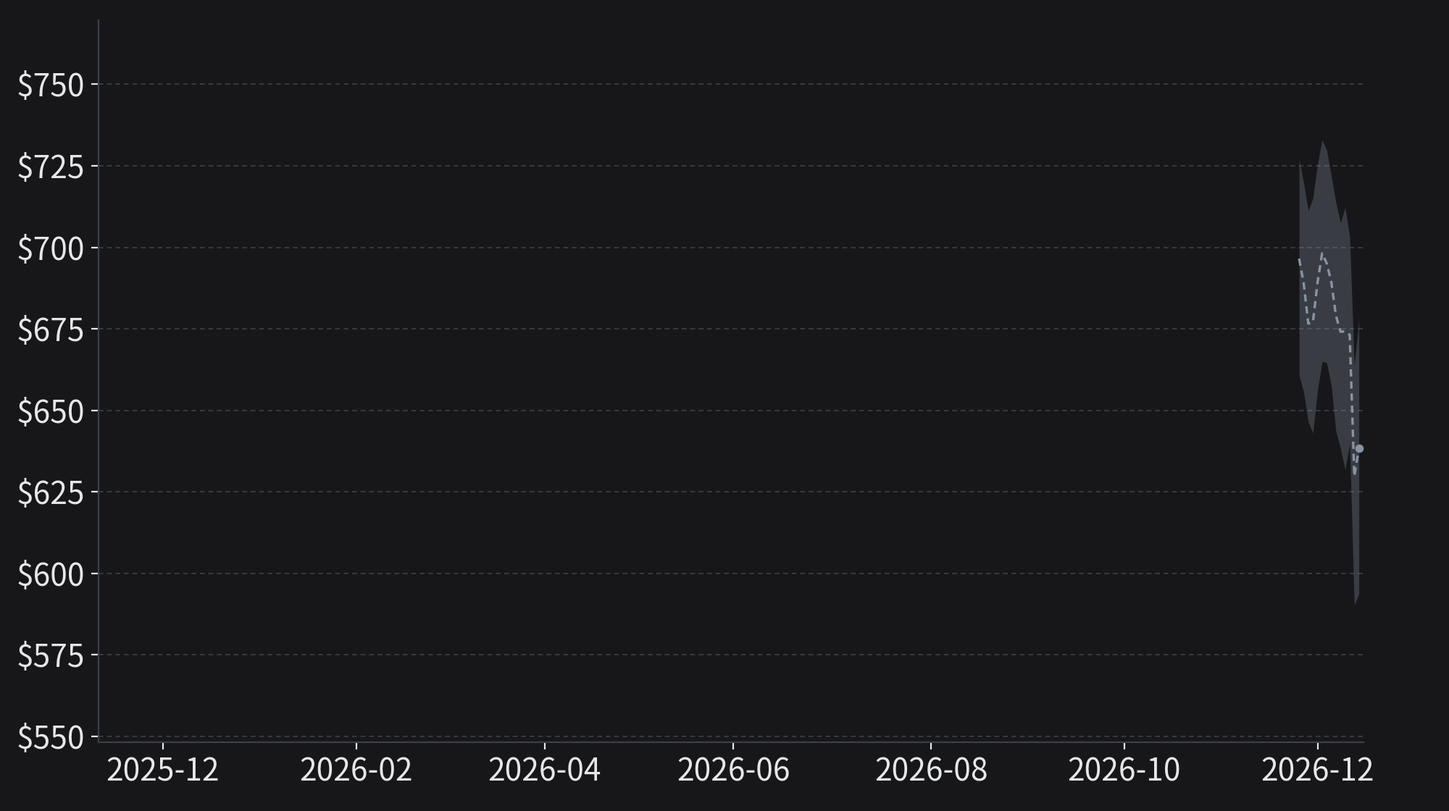
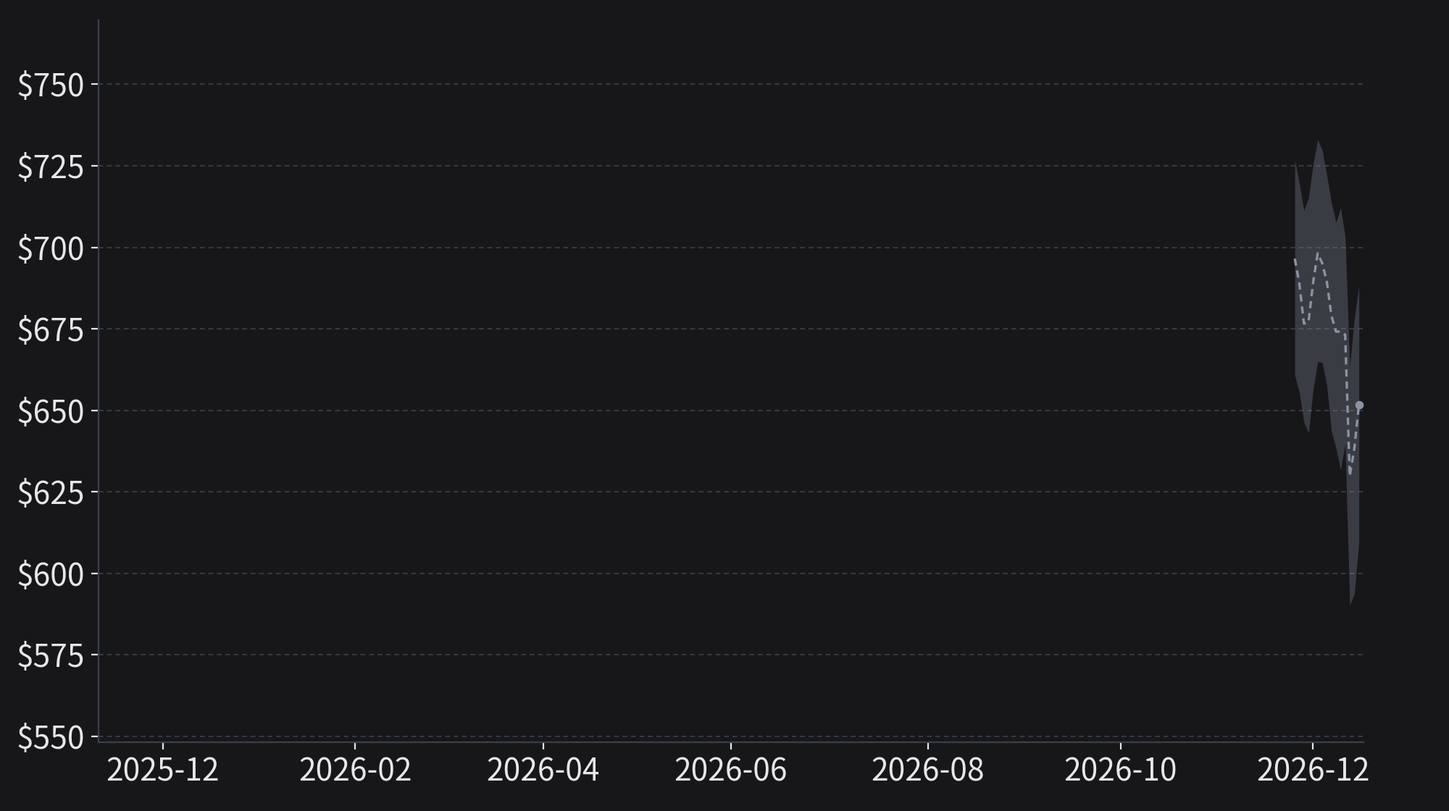
2026-11-11 nasdaq 리포트 공개본

diff --git a/r/20261111-nasdaq/report.html b/r/20261111-nasdaq/report.html
@@ -1,0 +1,117 @@
+<h2 id="1개월-지수-방향-예측">1개월 지수 방향 예측</h2>
+<p><img src="r/20261111-nasdaq/chart-nasdaq.png?v=f83bb70347" /></p>
+<p><img src="r/20261111-nasdaq/predict-nasdaq.png?v=da55520d54" /></p>
+<h3 id="현재-상태-10월-소비자물가가-예상보다-높았지만-코어위브-실적-덕분에-ai-기업의-부채에-대한-불안이-줄었다"><mark>현재 상태</mark> 10월 소비자물가가 예상보다 높았지만 코어위브 실적 덕분에 AI 기업의 부채에 대한 불안이 줄었다</h3>
+<p>10일 미국 노동부의 발표에서 10월 소비자물가는 식품과 에너지를 뺀 근원 물가까지 예상보다 많이 올랐다. 그날 2년물 국채 금리가 크게 올랐고 나스닥100은 0.6% 하락했다. 시장이 12월 금리 인상을 이미 거의 확실한 일로 예상하고 있었기 때문에 지수 낙폭이 작았던 것이다.</p>
+<p>같은 날 장 마감 뒤에는 AI 데이터센터를 임대하는 기업 코어위브가 3분기 실적을 냈다. 매출은 시장 예상보다 많았고, 이자비용은 회사의 전망보다 적었다. 코어위브의 부도 위험에 대한 보험료도 미국 중간선거 직후보다 낮아졌다. 지수는 지난주 AI 기업의 부채에 대한 불안 때문에 크게 하락했다. 코어위브 실적 덕분에 그 불안이 조금 줄어든 것이다.</p>
+<p>다만 시장은 여전히 조심스럽다. 엔비디아 주가는 최고경영자에 대한 이사회 조사 때문에 이틀 연속 크게 하락했다. 하이일드 채권 스프레드(신용등급이 낮은 회사채의 금리가 국채 금리보다 높은 폭)도 1년 가운데 높은 편이다.</p>
+<h3 id="주요-분기와-예측-물가-지표-엔비디아-실적-앤트로픽-공모에-따라-이번-달-주가가-달라진다"><mark>주요 분기와 예측</mark> 물가 지표, 엔비디아 실적, 앤트로픽 공모에 따라 이번 달 주가가 달라진다</h3>
+<p>앞으로 한 달 동안 세 가지 일이 중요하다.</p>
+<p>이달 말 나오는 10월 개인소비지출(PCE) 물가가 중요하다. 10월 소비자물가 발표 뒤 연준이 중시하는 근원 PCE 물가의 추정치를 골드만삭스와 BofA가 크게 올렸다. 근원 PCE 물가가 그 추정치만큼 높게 나올 가능성이 높다. 추정치보다 낮게 나오면 12월 큰 폭 인상에 대한 걱정이 줄어 주가가 오른다.</p>
+<p>17일 장 마감 뒤 나오는 엔비디아의 3분기 실적이 중요하다. 엔비디아가 시장 예상을 넘는 실적을 내고 주가가 오를 가능성이 어제보다 높아졌다. 엔비디아 주가는 이틀 크게 내렸지만 애널리스트들은 이익 추정치를 낮추지 않았기 때문이다. 다음 분기 전망이 시장 예상에 못 미치면 AI 반도체의 주가가 함께 하락한다.</p>
+<p>18일 장 마감 뒤 정해지는 AI 개발사 앤트로픽의 공모가가 중요하다. CNBC는 10일 기관들이 로드쇼 첫날에 가격 범위 안에서 공모 물량을 모두 청약했다고 전했다. 그래서 공모가가 가격 범위 안에서 정해질 가능성이 어제보다 높아졌다.</p>
+<h3 id="종합-시나리오-지수가-횡보할-가능성이-가장-높고-어제보다-그-확률이-커졌다"><mark>종합 시나리오</mark> 지수가 횡보할 가능성이 가장 높고, 어제보다 그 확률이 커졌다</h3>
+<p>지수가 횡보할 가능성이 가장 높다. 어제보다 그 확률이 커졌다. 지수가 소폭 하락할 가능성이 그다음으로 높고, 어제보다 그 확률도 조금 커졌다.</p>
+<p>지수가 횡보하려면 두 결과가 함께 나와야 한다. 10월 PCE 물가가 시장의 추정치만큼 나오고, 엔비디아가 시장 예상을 넘는 실적을 내는 것이다. 두 결과 모두 가능성이 높다. 그러면 12월 금리 인상과 AI 기업의 부채에 대한 불안 때문에 주가가 내리지만, 엔비디아 실적 덕분에 주가가 그만큼 오른다.</p>
+<p>지수가 소폭 하락하려면 물가 지표 때문에 12월 큰 폭 인상에 대한 걱정이 커져야 한다. 앤트로픽 공모와 주 정부의 데이터센터 규제 때문에 AI 주식에 대한 수요가 줄어도 지수가 소폭 하락한다. 엔비디아 실적이 시장의 기대에 못 미치면 지수가 소폭 하락할 가능성이 더 커진다.</p>
+<p>어제와 견주면 지수가 크게 하락할 확률이 가장 많이 줄었다. 코어위브 실적이 시장 예상보다 좋았고, 앤트로픽 공모의 청약이 강했으며, 트럼프 대통령이 이란에 대한 추가 공격을 자제하겠다고 말했기 때문이다.</p>
+<h2 id="주요-시장-지표">주요 시장 지표</h2>
+<h3 id="공포탐욕-지수" data-card="{&quot;tab&quot;: &quot;공포·탐욕&quot;, &quot;help&quot;: [[&quot;지표&quot;, &quot;CNN이 주가 추세, 신고가 종목 수, 옵션 거래, 안전자산 수요 같은 지표 7개로 투자 심리를 0~100점으로 매긴 값이에요.&quot;], [&quot;그림 읽기&quot;, &quot;흰 바늘이 오늘 점수를 가리켜요. 연한 회색 바늘은 11/10 값이에요. 왼쪽 끝이 공포, 오른쪽 끝이 탐욕이에요.&quot;]], &quot;asof&quot;: &quot;CNN · 11/11&quot;, &quot;value&quot;: &quot;33&quot;, &quot;state&quot;: [&quot;공포&quot;, &quot;#5b9bff&quot;], &quot;figure&quot;: {&quot;type&quot;: &quot;semi&quot;, &quot;min&quot;: 0, &quot;max&quot;: 100, &quot;zones&quot;: [[25, &quot;#5b9bff&quot;, &quot;극단 공포&quot;], [45, &quot;#5b9bff&quot;, &quot;공포&quot;], [55, &quot;#4a4f58&quot;, &quot;중립&quot;], [75, &quot;#ff5c5c&quot;, &quot;탐욕&quot;], [100, &quot;#ff5c5c&quot;, &quot;극단 탐욕&quot;]], &quot;value&quot;: 33, &quot;before&quot;: 32, &quot;ends&quot;: [&quot;공포&quot;, &quot;탐욕&quot;]}}">공포·탐욕 지수</h3>
+<p>공포·탐욕 지수는 1년 가운데 하위 3분의 1이다. 시장이 아직 조심스럽다는 뜻이다. 좋은 소식이 나오면 매수가 늘 수 있다.</p>
+<h3 id="qqq-풋콜-거래-비율" data-card="{&quot;tab&quot;: &quot;풋/콜&quot;, &quot;help&quot;: [[&quot;지표&quot;, &quot;그날 거래된 QQQ 풋옵션 계약 수를 콜옵션 계약 수로 나눈 값이에요. 하락에 대비하는 풋옵션을 많이 살수록 값이 커져요.&quot;], [&quot;그림 읽기&quot;, &quot;값이 클수록 시장에 부정적이어서, 큰 값을 왼쪽에 그려요. 흰 바늘이 오늘 값을 가리켜요. 연한 회색 바늘은 11/10 값이에요.&quot;]], &quot;asof&quot;: &quot;옵션 · 11/11&quot;, &quot;value&quot;: &quot;1.12&quot;, &quot;state&quot;: [&quot;중립&quot;, &quot;#4a4f58&quot;], &quot;figure&quot;: {&quot;type&quot;: &quot;semi&quot;, &quot;min&quot;: 0.4, &quot;max&quot;: 2, &quot;zones&quot;: [[0.8, &quot;#ff5c5c&quot;, &quot;낙관&quot;], [1.2, &quot;#4a4f58&quot;, &quot;중립&quot;], [2, &quot;#5b9bff&quot;, &quot;비관&quot;]], &quot;value&quot;: 1.12, &quot;reverse&quot;: true, &quot;before&quot;: 1.25, &quot;ends&quot;: [&quot;비관&quot;, &quot;낙관&quot;]}}">QQQ 풋/콜 거래 비율</h3>
+<p>풋/콜 거래 비율이 1년 가운데 낮은 편이다. 시장이 하락에 덜 대비한다는 뜻이다. 악재가 나오면 지수가 더 크게 하락할 수 있다.</p>
+<h3 id="연준-금리-경로" data-card="{&quot;tab&quot;: &quot;금리 경로&quot;, &quot;help&quot;: [[&quot;지표&quot;, &quot;연방기금 금리 선물의 가격으로 계산한 연준 기준금리의 예상 경로예요. 앞으로 열리는 연준 회의 세 번마다 지금 금리에서 얼마나 바뀔지를 누적 %p로 보여 줘요.&quot;], [&quot;그림 읽기&quot;, &quot;금리가 움직일 방향대로 인상을 오른쪽에 빨간 막대로, 인하를 왼쪽에 파란 막대로 그려요.&quot;]], &quot;asof&quot;: &quot;연방기금 선물 · 11/11&quot;, &quot;value&quot;: &quot;+0.28&quot;, &quot;unit&quot;: &quot;%p&quot;, &quot;state&quot;: [&quot;12월 인상 예상&quot;, &quot;#ff5c5c&quot;], &quot;figure&quot;: {&quot;type&quot;: &quot;diverge&quot;, &quot;rows&quot;: [[&quot;12월&quot;, 28.2, &quot;+0.28%p&quot;], [&quot;1월&quot;, 44.0, &quot;+0.44%p&quot;], [&quot;3월&quot;, 60.6, &quot;+0.61%p&quot;]], &quot;max&quot;: 75.75, &quot;ends&quot;: [&quot;인하&quot;, &quot;인상&quot;]}}">연준 금리 경로</h3>
+<p>12월 인상 기대가 이번 주 더 커졌다. 시장이 0.25%p보다 큰 인상도 일부 예상한다는 뜻이다. 물가가 또 높으면 국채 금리가 더 오를 수 있다.</p>
+<h3 id="vix-변동성-지수" data-card="{&quot;tab&quot;: &quot;VIX&quot;, &quot;help&quot;: [[&quot;지표&quot;, &quot;S&amp;P500 옵션 가격으로 계산한 앞으로 30일 동안의 예상 변동성이에요. 급락에 대비하는 옵션을 많이 살수록 값이 커져요.&quot;], [&quot;그림 읽기&quot;, &quot;값이 클수록 시장에 부정적이어서, 큰 값을 왼쪽에 그려요. 흰 원이 오늘 값이에요. 연한 회색 원은 11/10 값이에요. 구간은 시장에서 흔히 쓰는 15·20·30을 경계로 나눠요.&quot;]], &quot;asof&quot;: &quot;CBOE · 11/11&quot;, &quot;value&quot;: &quot;19.5&quot;, &quot;state&quot;: [&quot;보통&quot;, &quot;#4a4f58&quot;], &quot;figure&quot;: {&quot;type&quot;: &quot;zoneBar&quot;, &quot;min&quot;: 10, &quot;max&quot;: 50, &quot;zones&quot;: [[15, &quot;#0ca30c&quot;, &quot;안정&quot;], [20, &quot;#4a4f58&quot;, &quot;보통&quot;], [30, &quot;#fab219&quot;, &quot;불안&quot;], [50, &quot;#d03b3b&quot;, &quot;공포&quot;]], &quot;value&quot;: 19.46, &quot;before&quot;: 19.92, &quot;reverse&quot;: true}}">VIX 변동성 지수</h3>
+<p>변동성 지수는 1년 가운데 높은 편이지만 지난주보다 낮다. 시장의 불안이 줄었다는 뜻이다. 기계적으로 매매하는 펀드가 주식을 다시 살 수 있다.</p>
+<h3 id="하이일드-스프레드" data-card="{&quot;tab&quot;: &quot;신용&quot;, &quot;help&quot;: [[&quot;지표&quot;, &quot;신용등급이 낮은 미국 회사채의 금리에서 국채 금리를 뺀 값이에요. 채권 투자자가 부도 위험에 대한 보상으로 더 요구하는 금리예요.&quot;], [&quot;그림 읽기&quot;, &quot;막대는 최근 12주 동안 주마다 마지막 스프레드예요. 맨 오른쪽 흰 막대가 오늘 값이에요. 막대가 오른쪽으로 갈수록 높아지면 채권 시장이 부도 위험을 더 크게 본다는 뜻이에요.&quot;]], &quot;asof&quot;: &quot;FRED · 11/10&quot;, &quot;value&quot;: &quot;3.34&quot;, &quot;unit&quot;: &quot;%&quot;, &quot;state&quot;: [&quot;1년 상위 3%&quot;, &quot;#5b9bff&quot;], &quot;figure&quot;: {&quot;type&quot;: &quot;columns&quot;, &quot;bars&quot;: [[&quot;8/29&quot;, 2.6, &quot;2.60%&quot;], [&quot;9/4&quot;, 2.65, &quot;2.65%&quot;], [&quot;9/12&quot;, 2.65, &quot;2.65%&quot;], [&quot;9/19&quot;, 2.68, &quot;2.68%&quot;], [&quot;9/26&quot;, 2.93, &quot;2.93%&quot;], [&quot;10/3&quot;, 3.1, &quot;3.10%&quot;], [&quot;10/9&quot;, 3.15, &quot;3.15%&quot;], [&quot;10/17&quot;, 3.31, &quot;3.31%&quot;], [&quot;10/24&quot;, 3.38, &quot;3.38%&quot;], [&quot;10/31&quot;, 3.44, &quot;3.44%&quot;], [&quot;11/7&quot;, 3.42, &quot;3.42%&quot;], [&quot;11/10&quot;, 3.34, &quot;3.34%&quot;]], &quot;max&quot;: 4, &quot;lines&quot;: [[1, &quot;1%&quot;], [2, &quot;2%&quot;], [3, &quot;3%&quot;], [4, &quot;4%&quot;]]}}">하이일드 스프레드</h3>
+<p>하이일드 스프레드는 1년 가운데 높지만 지난주보다 좁다. 신용등급이 낮은 회사의 채권 시장 전체에서 부채에 대한 불안이 커지지 않았다는 뜻이다. 더 좁아지면 기술주 매도가 줄 수 있다.</p>
+<h2 id="주요-이슈-해설">주요 이슈 해설</h2>
+<h3 id="1-코어위브-실적과-ai-기업의-부채에-대한-불안-양방향-중요도-높음">1. 코어위브 실적과 AI 기업의 부채에 대한 불안 <code>양방향</code> <code>중요도 높음</code></h3>
+<h4 id="이슈-해설-코어위브의-3분기-이자비용이-회사-전망보다-적었다"><mark>이슈 해설</mark> 코어위브의 3분기 이자비용이 회사 전망보다 적었다</h4>
+<p>AI 데이터센터를 임대하는 기업 코어위브의 3분기 실적이 시장 예상보다 좋았다. 지수는 지난주 AI 기업의 부채에 대한 불안 때문에 하락했다. 코어위브 실적 덕분에 그 불안이 조금 줄어든 것이다.</p>
+<p>CNBC는 10일 코어위브의 3분기 매출이 36.6억 달러로 LSEG 집계 예상 35.5억 달러보다 많았다고 전했다. 코어위브는 지난 분기에 3분기 이자비용을 8.6억~9.4억 달러로 예상했다. 코어위브가 같은 날 공시한 3분기 순이자비용은 8.46억 달러로 그보다 적었다. 코어위브는 올해 매출과 영업이익 전망도 올렸다. 데이터센터 수요가 줄지 않았고 이자 부담도 회사가 예상한 수준을 넘지 않은 것이다.</p>
+<p>코어위브 경영진은 같은 날 2027년까지 회사채를 더 발행하지 않겠다고 말했다. 코어위브는 앞으로 석 달 동안 고객에게 미리 받을 약 90억 달러와 계약을 담보로 한 대출로 필요한 돈을 마련하겠다는 것이다.</p>
+<p>9월 말 코어위브의 수주잔고는 1,325억 달러로 6월 말보다 늘었다.</p>
+<p>다만 코어위브의 이자 부담은 계속 커진다. 코어위브는 4분기 이자비용을 3분기보다 많은 10.5억~11.5억 달러로 예상했다. 3분기 설비투자는 영업으로 번 현금의 약 다섯 배였다.</p>
+<p>시장은 코어위브 실적 전부터 부채에 대한 불안을 덜고 있었다. CNBC에 따르면 코어위브의 부도 위험에 대한 보험료는 5일 1,278bp에서 실적 발표 전인 10일 오전 약 1,152bp로 내렸다. 로이터는 실적 직후 그 보험료가 1,135bp였다고 전했다.</p>
+<p>AI 기업의 부채에 대한 불안은 신용등급이 낮은 회사의 채권 시장 전체에서 커지지 않았다. 하이일드 채권 스프레드가 미국 중간선거 직후보다 좁기 때문이다.</p>
+<h3 id="2-10월-소비자물가와-12월-금리-인상-하락-요인-중요도-높음">2. 10월 소비자물가와 12월 금리 인상 <code>하락 요인</code> <code>중요도 높음</code></h3>
+<h4 id="이슈-해설-10월-근원-소비자물가가-예상보다-01p-높았다"><mark>이슈 해설</mark> 10월 근원 소비자물가가 예상보다 0.1%p 높았다</h4>
+<p>미국의 10월 근원 소비자물가가 예상보다 많이 올랐다. 시장은 12월 연준 회의에서 금리를 0.25%p 올리는 것을 넘어 더 큰 폭의 인상과 내년 1월의 추가 인상까지 예상하기 시작했다.</p>
+<p>미국 노동부는 10일 10월 소비자물가가 전월보다 0.4% 올랐다고 발표했다. 근원 물가는 0.3% 올랐다. 다우존스 집계 예상은 각각 0.3%와 0.2%였다. 근원 물가는 9월에도 같은 폭으로 올랐다. 시장이 물가 상승은 일시적이지 않다고 걱정하게 된 것이다.</p>
+<p>연준 인사들도 추가 긴축을 말했다. 월러 이사는 발표 전 근원 물가가 0.3% 안팎이면 12월에 0.5%p 인상을 검토해야 한다고 말했다. 댈러스 연은의 로건 총재는 발표 뒤 0.25%p 인상이 두 번 더 필요하다고 말했다.</p>
+<p>골드만삭스는 10월 근원 PCE 물가의 추정치를 0.23%에서 0.35%로 올렸다.</p>
+<p>다만 시장은 12월 인상을 이미 대부분 예상하고 있었다. CNBC는 9일 CME FedWatch(금리 선물 가격으로 회의마다 인상 확률을 계산하는 도구) 기준 12월 인상 확률이 80%를 넘었다고 전했다. 10일 로이터 설문에서는 이코노미스트 101명 모두가 12월 0.25%p 인상을 예상했다. 이 가운데 56명은 12월을 마지막 인상으로 봤다.</p>
+<p>10일 2년물 국채 금리는 18.9bp 올랐지만 나스닥100은 0.6% 하락에 그쳤다. 연방기금 선물의 가격은 12월과 내년 1월 인상을 반영했다. 시장이 0.5%p 인상 가능성을 장중 약 15%까지 예상했다가 장 마감 무렵 약 10%로 줄인 것이다.</p>
+<h3 id="3-엔비디아-최고경영자-조사와-실적-양방향-중요도-높음">3. 엔비디아 최고경영자 조사와 실적 <code>양방향</code> <code>중요도 높음</code></h3>
+<h4 id="이슈-해설-엔비디아-주가가-최고경영자에-대한-조사-보도-뒤-이틀-연속-크게-하락했다"><mark>이슈 해설</mark> 엔비디아 주가가 최고경영자에 대한 조사 보도 뒤 이틀 연속 크게 하락했다</h4>
+<p>엔비디아 주가가 이틀 연속 크게 하락했다. 시장은 최고경영자에 대한 조사가 엔비디아의 중국 판매에 대한 규제로 이어질 수 있다고 걱정한 것이다.</p>
+<p>야후파이낸스는 10일 엔비디아 주가가 5.47% 내린 168.89달러로 마감했다고 전했다. 엔비디아 주가는 9일에도 4.3% 하락했다. 같은 날 기술 매체 디인포메이션은 최소 75억 달러어치의 엔비디아 제품이 2023년 이후 중국 기업에 팔렸다고 보도했다. 최고경영자와 가까운 인물이 관여한 유통망을 거쳤다는 것이다. 엔비디아는 이 판매 규모를 확인하지 않았다.</p>
+<p>엔비디아 이사회는 8일 독립 위원회를 꾸려 최고경영자와 싱가포르 기술기업 메가스피드 임원의 관계를 조사한다고 밝혔다. 미국 법무부는 메가스피드를 형사 조사하고 있다. 하원 위원장 세 명은 최고경영자에게 18일 비공개 브리핑에 나오라고 요청했다.</p>
+<p>다만 애널리스트들은 엔비디아의 이익 추정치를 내리지 않았다. 투자 분석 매체 TIKR은 2일 엔비디아의 다음 분기 매출 예상을 약 1,240억 달러로 전했다. 같은 매체는 5일 애널리스트들이 추정치를 내리지 않고 있다고 적었다. 엔비디아는 3분기 매출 전망에 중국 데이터센터 매출을 처음부터 포함하지 않았다. 중국 판매에 대한 의혹 때문에 3분기 실적이 달라지지는 않는 것이다.</p>
+<p>옵션 시장은 실적 발표 뒤 엔비디아 주가가 위아래로 6.7% 움직일 것으로 가격을 매겼다. 이 변동폭은 주가가 내리기 전의 값과 거의 같다. 시장은 주가가 하락한 뒤에도 실적 발표 뒤 주가 변동폭에 대한 예상을 줄이지 않은 것이다.</p>
+<h3 id="4-주-정부의-데이터센터-규제-하락-요인-중요도-높음">4. 주 정부의 데이터센터 규제 <code>하락 요인</code> <code>중요도 높음</code></h3>
+<h4 id="이슈-해설-미국에-계획된-데이터센터-용량의-약-40가-신규-건설을-멈추겠다고-공약한-주에-있다"><mark>이슈 해설</mark> 미국에 계획된 데이터센터 용량의 약 40%가 신규 건설을 멈추겠다고 공약한 주에 있다</h4>
+<p>미국 중간선거에서 당선된 새 주지사들이 데이터센터의 신규 건설을 멈추거나 조건을 달겠다고 공약했다. 그 주들에 계획된 데이터센터 건설이 늦어지면 AI 반도체와 데이터센터 기업의 매출 예상이 줄어든다.</p>
+<p>블룸버그는 6일 데이터 기업 클린뷰의 자료를 인용해 미국에 계획된 데이터센터 용량의 약 40%가 신규 건설을 멈추겠다고 공약한 주지사의 주에 있다고 전했다. 블룸버그 인텔리전스는 같은 날 선거 결과 때문에 기술 기업의 내년 AI 인프라에 대한 지출이 5~7% 줄 수 있다고 추정했다. 민주당은 내년 1월 의회에서 데이터센터를 겨냥한 법안을 낼 계획이다.</p>
+<p>다만 이번 달 안에 새로 시행될 규제는 많지 않을 것으로 보인다. 오하이오 주지사 당선인 에이미 액턴은 조건부 중단을 지지한다. 조건부 중단은 신규 데이터센터가 전력 비용을 모두 부담하면 건설을 허용하는 방식이다. 코어위브는 10일 3분기 실적을 공시하면서 규제 때문에 건설이 늦어졌다고 밝히지 않았다. 코어위브는 3분기에 계약한 전력 용량을 900MW 넘게 늘렸다. 텍사스 전력망 운영기관 ERCOT는 다음 달 10일 데이터센터 감사 결과를 낸다.</p>
+<p>모건스탠리는 9일 내년 빅테크의 설비투자 전망 1.6조 달러를 그대로 유지했다. 모건스탠리가 선거 뒤에도 설비투자 추정치를 수치로 낮추지 않은 것이다.</p>
+<p>지난주 반도체 주가가 하락했다. 시장이 규제에 대한 우려를 먼저 주가에 반영한 것이다.</p>
+<h3 id="5-앤트로픽-공모와-ai-주식-공급-하락-요인-중요도-높음">5. 앤트로픽 공모와 AI 주식 공급 <code>하락 요인</code> <code>중요도 높음</code></h3>
+<h4 id="이슈-해설-앤트로픽이-주당-7078달러로-8억-2500만-주를-공모한다"><mark>이슈 해설</mark> 앤트로픽이 주당 70~78달러로 8억 2,500만 주를 공모한다</h4>
+<p>AI 개발사 앤트로픽이 공모 가격의 범위를 정했다. 기관의 청약 수요는 강하다. 그러나 AI 대형주가 새로 상장되면 시장이 이미 상장된 AI 대형주를 팔 수 있다.</p>
+<p>앤트로픽은 10일 주당 70~78달러에 8억 2,500만 주를 공모한다고 밝혔다. 테크크런치에 따르면 공모가가 범위 상단에서 정해지면 기업가치는 약 1조 4,040억 달러다. 테크크런치는 이 값이 몇 달 전 목표로 보도된 2조 달러보다 낮다고 전했다. 앤트로픽은 AMD·브로드컴·구글·엔비디아 등 7개 기업에 공모가로 260억 달러어치 주식을 따로 팔기로 했다.</p>
+<p>CNBC는 10일 관계자를 인용해 기관들이 가격 범위 안에서 이미 공모 물량을 모두 청약했다고 전했다. 파이낸셜타임스는 같은 날 주관사들이 1조 5,000억 달러 이상의 기업가치를 준비한다고 보도했다. 공모가가 가격 범위 안에서 정해질 가능성이 높다.</p>
+<p>다만 주관사가 준비하는 기업가치를 기존 주주들은 불확실하게 본다. CNBC는 같은 날 앤트로픽 주주들이 1조 5,000억 달러도 이제 불확실하다고 말했다고 전했다.</p>
+<p>공모 규모는 앞서 예상된 750억~1,000억 달러보다 작다. 그래도 AI 개발사 앤트로픽의 주식이 19일부터 거래된다. 시장은 거래가 시작되기 전에 이미 상장된 AI 대형주의 비중을 줄일 수 있다.</p>
+<h3 id="검토했지만-비중을-낮춘-이슈">검토했지만 비중을 낮춘 이슈</h3>
+<ul>
+<li><strong>미국과 이란의 재충돌과 종전 합의</strong>: 트럼프 대통령이 추가 공격을 자제하겠다고 말해 전면 공격이 다시 시작될 가능성이 낮아졌다. 어느 정부도 종전 합의를 발표하지 않았다.</li>
+<li><strong>누적 낙폭에 따른 기계적 매도</strong>: 지수가 지난주 저점보다 높다. 체계적 펀드(변동성과 가격 추세에 따라 기계적으로 매매하는 펀드)가 다시 대량으로 팔 가능성이 낮다.</li>
+<li><strong>소프트뱅크그룹의 부도 위험에 대한 보험료 상승</strong>: 소프트뱅크는 나스닥100 구성 기업이 아니다. 소프트뱅크의 부도 위험에 대한 보험료는 이 지수의 이익으로 전달되는 경로가 약하다.</li>
+</ul>
+<h2 id="다가오는-이벤트">다가오는 이벤트</h2>
+<h3 id="1110화-장전-10월-cpi-중요도-높음" data-day="2026-11-10" data-level="high"><span class="when">11/10(화) 22:30 KST</span>10월 CPI <code>중요도 높음</code></h3>
+<table class="events judged">
+<thead><tr><th>분기</th><th>확률</th><th>전개 예상</th></tr></thead>
+<tbody>
+<tr class="hit"><td class="branch">근원 전월비 0.3% 이상</td><td class="chance">35%</td><td>연준이 12월 뒤에도 금리를 더 올릴 것이라는 기대가 커져 지수가 하락한다. 지수가 9일 반등으로 낙폭 대부분을 회복했기 때문에 하락 폭이 클 수 있다 <span class="outcome">→ 10월 소비자물가가 전월보다 0.4% 오르고 근원 물가가 0.3% 올라 예상(0.3%, 0.2%)을 모두 웃돌았다. 2년물 금리는 18.9bp 올랐고 나스닥100은 0.6% 내렸다.</span></td></tr>
+<tr><td class="branch">근원 전월비 0.2% 이하</td><td class="chance">65%</td><td>시장이 예상한 결과라 주가가 조금 오르는 데 그친다. 2027년 금리 인상 기대가 줄어 기술주에 유리하다</td></tr>
+</tbody>
+</table>
+<h3 id="1110화-장후-코어위브-3분기-실적-중요도-높음" data-day="2026-11-10" data-level="high"><span class="when">장후</span>코어위브 3분기 실적 <code>중요도 높음</code></h3>
+<table class="events judged">
+<thead><tr><th>분기</th><th>확률</th><th>전개 예상</th></tr></thead>
+<tbody>
+<tr class="hit"><td class="branch">이자비용 가이던스 이내·조달 계획 제시</td><td class="chance">50%</td><td>AI 인프라 기업의 자금 조달에 대한 불안이 줄어 반도체 주식이 조금 오른다 <span class="outcome">→ 코어위브의 3분기 매출은 36.6억 달러로 예상 35.5억 달러를 넘었다. 순이자비용 8.46억 달러는 가이던스 하단 8.6억 달러보다 낮았다. 회사가 2027년까지 모회사 무담보채를 더 내지 않겠다고 밝힌 뒤 QQQ는 시간외에서 정규장 종가보다 0.75% 높게 체결됐다.</span></td></tr>
+<tr><td class="branch">이자비용 초과 또는 조달·고객 이탈 우려</td><td class="chance">50%</td><td>코어위브 채권과 AI 인프라 주식이 함께 하락하고, 신용등급이 낮은 회사채 전체로 불안이 커질 가능성이 높아진다</td></tr>
+</tbody>
+</table>
+<p><img src="r/20261111-nasdaq/tree-nasdaq.png?v=8e4259138f" /></p>
+<h3 id="1113금-장전-10월-ppi-중요도-낮음" data-day="2026-11-13" data-level="low"><span class="when">11/13(금) 22:30 KST</span>10월 PPI <code>중요도 낮음</code></h3>
+<table class="events">
+<thead><tr><th>분기</th><th>확률</th><th>전개 예상</th></tr></thead>
+<tbody>
+<tr><td class="branch">PCE 연계 항목 상회·부합으로 근원 PCE 추정 0.30% 이상 유지</td><td class="chance">72%<br><small class="delta flat">신규</small></td><td>시장이 이미 예상한 결과라 주가가 크게 움직이지 않는다. 12월 큰 폭 인상에 대한 걱정이 줄지 않는다</td></tr>
+<tr><td class="branch">PCE 연계 항목 하회로 근원 PCE 추정 0.30% 아래</td><td class="chance">28%<br><small class="delta flat">신규</small></td><td>시장이 연준이 중시하는 물가 지표가 덜 오를 것으로 예상하기 때문에 국채 금리가 내리고 주가가 오른다</td></tr>
+</tbody>
+</table>
+<h3 id="1117화-장후-엔비디아-3분기-실적-중요도-높음" data-day="2026-11-17" data-level="high"><span class="when">11/18(수) 06:20 KST</span>엔비디아 3분기 실적 <code>중요도 높음</code></h3>
+<table class="events">
+<thead><tr><th>분기</th><th>확률</th><th>전개 예상</th></tr></thead>
+<tbody>
+<tr><td class="branch">매출·가이던스 상회로 상승</td><td class="chance">40%<br><small class="delta up">▲3%p</small></td><td>AI 반도체 수요에 대한 걱정이 줄어 반도체 주가가 함께 오른다</td></tr>
+<tr><td class="branch">상회에도 다음 날 하락</td><td class="chance">36%<br><small class="delta down">▼3%p</small></td><td>높은 기대 때문에 좋은 실적에도 주가가 하루 하락한다. 수요에 대한 걱정이 커지지는 않는다</td></tr>
+<tr><td class="branch">다음 분기 가이던스 미달</td><td class="chance">24%<br><small class="delta flat">–</small></td><td>AI 반도체 매출이 기대만큼 늘지 않는다는 걱정 때문에 반도체 주가가 함께 하락한다</td></tr>
+</tbody>
+</table>
+<h3 id="1118수-장후-앤트로픽-공모가-결정-중요도-높음" data-day="2026-11-18" data-level="high"><span class="when">11/19(목) 10:00 KST</span>앤트로픽 공모가 결정 <code>중요도 높음</code></h3>
+<table class="events">
+<thead><tr><th>분기</th><th>확률</th><th>전개 예상</th></tr></thead>
+<tbody>
+<tr><td class="branch">가격 범위 안 이상에서 공모 확정</td><td class="chance">65%<br><small class="delta up">▲20%p</small></td><td>시장이 이미 예상한 결과라 주가가 크게 움직이지 않는다</td></tr>
+<tr><td class="branch">범위 하단 아래 하향 공모</td><td class="chance">22%<br><small class="delta down">▼13%p</small></td><td>AI 기업의 가치에 대한 기대가 낮아져 AI 대형주가 하락한다</td></tr>
+<tr><td class="branch">전망 기간 안 가격 결정 없음</td><td class="chance">13%<br><small class="delta down">▼7%p</small></td><td>청약이 찬 뒤의 연기라 AI 주식에 대한 수요가 약하다는 걱정이 커져 주가가 하락한다</td></tr>
+</tbody>
+</table>
